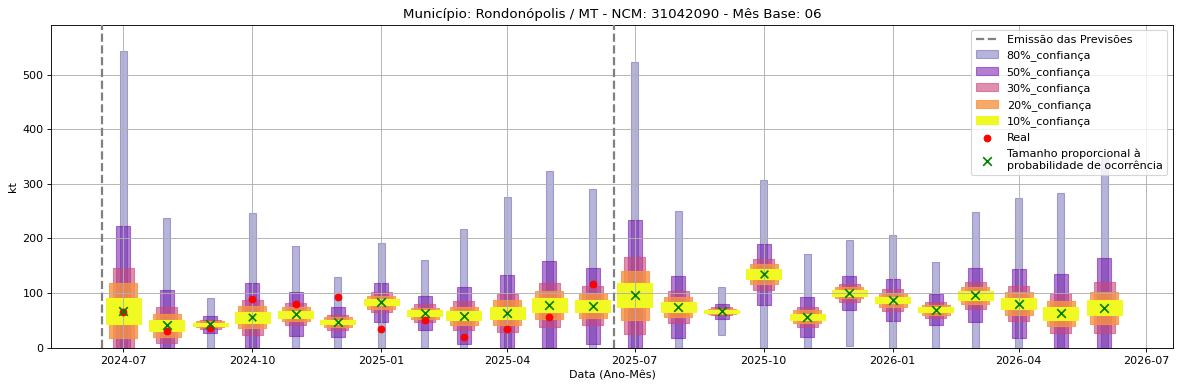
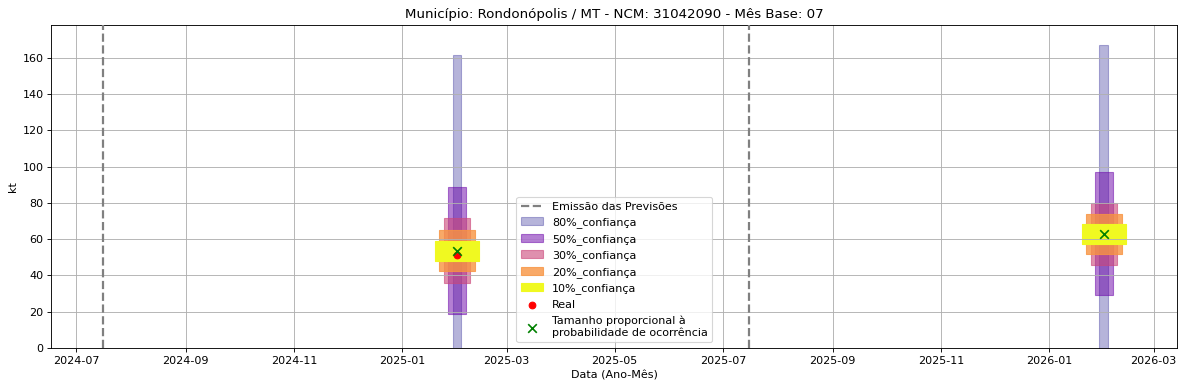
Atualização automática em lote

diff --git a/README.md b/README.md
@@ -6,9 +6,9 @@
 
 # Previsão de Importação - Rondonópolis-MT
 
-> **Emissão:** 06-2025
+> **Emissão:** 07-2025
 > Para fins de comparação, também apresentamos a seguir previsões e valores reais de períodos anteriores ao atual.
-> As previsões foram geradas com base em dados limitados até o mês 6.
+> As previsões foram geradas com base em dados limitados até o mês 7.
 
 ---
 
@@ -17,37 +17,18 @@
 
 ![Gráfico de Previsão](31021010.png)
 Fator de Influência em Destaque:
+Previsões emitidas no mês 8.
 Previsão Influenciada:
 - Município: Rondonópolis
 - Produto (NCM): Ureia, mesmo em solução aquosa, com teor de nitrogênio (azoto) superior a 45 %, em peso, calculado sobre o produto anidro no estado seco-31021010 
-- Mês previsto: 09
-
-
-Fator Influenciador: Comex
-- Município: Blumenau
-- Grupo de Produto (SH2): Adubos (fertilizantes)-31 
-- Mês previsto: 09
-- Unidade: price_mun_lag25
-
-
-
-
-
-
-
-![Gráfico de Previsão](31022100.png)
-Fator de Influência em Destaque:
-Previsão Influenciada:
-- Município: Rondonópolis
-- Produto (NCM): Sulfato de amônio-31022100 
 - Mês previsto: 06
 
 
 Fator Influenciador: Comex
-- Município: Belém
-- Grupo de Produto (SH2): Adubos (fertilizantes)-31 
-- Mês previsto: 06
-- Unidade: kt_mun
+- Unidade Federativa: MT
+- Grupo de Produto (SH2): Sementes e frutos oleaginosos; grãos, sementes e frutos diversos; plantas industriais ou medicinais; palhas e forragens-12 
+- Mês: 5
+- Unidade: kt_lag25
 
 
 
@@ -57,17 +38,15 @@ Fator Influenciador: Comex
 
 ![Gráfico de Previsão](31042090.png)
 Fator de Influência em Destaque:
+Previsões emitidas no mês 8.
 Previsão Influenciada:
 - Município: Rondonópolis
 - Produto (NCM): Outros cloretos de potássio-31042090 
-- Mês previsto: 11
+- Mês previsto: 02
 
 
-Fator Influenciador: Comex
-- Município: Salvador
-- Grupo de Produto (SH2): Adubos (fertilizantes)-31 
-- Mês previsto: 11
-- Unidade: kt_lag1
+Fator Influenciador: O tempo. Elevada correlação com o tempo ou tendência. 
+- Unidade: date
 
 
 
